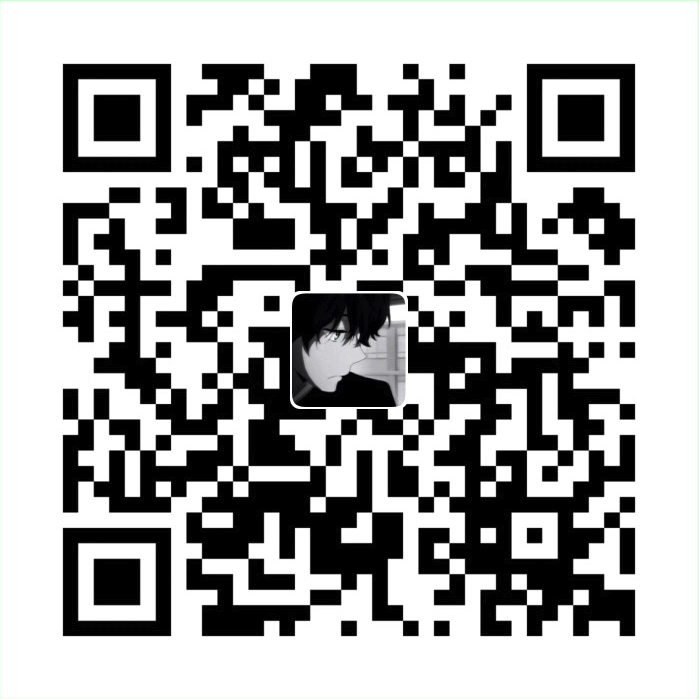
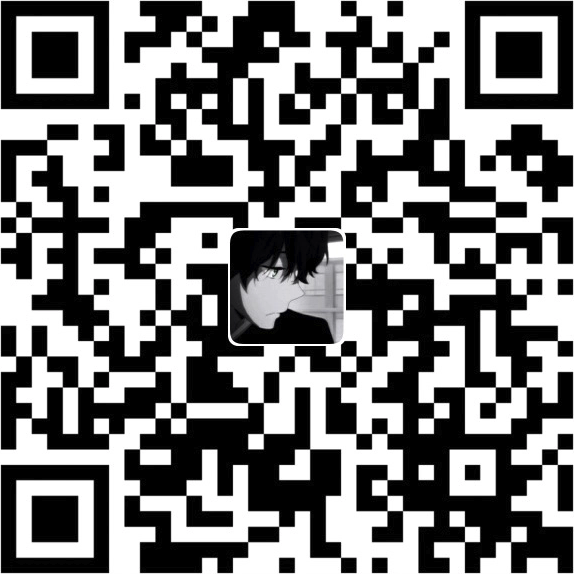
Deploy OLIVERgZzy/oliver.github.io to github.com/OLIVERgZzy/oliver.github.io.git:gh-pages

diff --git a/typescript-ji-chu-yu-fa/index.html b/typescript-ji-chu-yu-fa/index.html
@@ -1775,10 +1775,10 @@ m<span class="token punctuation">.</span>myFunction <span class="token operator"
                         <li class="tab col s6 wechat-tab waves-effect waves-light"><a href="#wechat">微 信</a></li>
                     </ul>
                     <div id="alipay">
-                        <img src="https://i.loli.net/2020/06/26/GJ8SHf43zVLKrls.png" class="reward-img" alt="支付宝打赏二维码">
+                        <img src="https://i.loli.net/2020/06/27/ifgKHSY8FP4wsRQ.png" class="reward-img" alt="支付宝打赏二维码">
                     </div>
                     <div id="wechat">
-                        <img src="https://i.loli.net/2020/06/26/Trbis7NPplgSJAq.png" class="reward-img" alt="微信打赏二维码">
+                        <img src="https://i.loli.net/2020/06/27/cbidkZxVlhErz18.png" class="reward-img" alt="微信打赏二维码">
                     </div>
                 </div>
             </div>

diff --git a/typescript-gong-cheng-pei-zhi/index.html b/typescript-gong-cheng-pei-zhi/index.html
@@ -918,10 +918,10 @@ module<span class="token punctuation">.</span>exports <span class="token operato
                         <li class="tab col s6 wechat-tab waves-effect waves-light"><a href="#wechat">微 信</a></li>
                     </ul>
                     <div id="alipay">
-                        <img src="https://i.loli.net/2020/06/26/GJ8SHf43zVLKrls.png" class="reward-img" alt="支付宝打赏二维码">
+                        <img src="https://i.loli.net/2020/06/27/ifgKHSY8FP4wsRQ.png" class="reward-img" alt="支付宝打赏二维码">
                     </div>
                     <div id="wechat">
-                        <img src="https://i.loli.net/2020/06/26/Trbis7NPplgSJAq.png" class="reward-img" alt="微信打赏二维码">
+                        <img src="https://i.loli.net/2020/06/27/cbidkZxVlhErz18.png" class="reward-img" alt="微信打赏二维码">
                     </div>
                 </div>
             </div>

diff --git a/wo-de-di-yi-pian-bo-ke/index.html b/wo-de-di-yi-pian-bo-ke/index.html
@@ -617,10 +617,10 @@
                         <li class="tab col s6 wechat-tab waves-effect waves-light"><a href="#wechat">微 信</a></li>
                     </ul>
                     <div id="alipay">
-                        <img src="https://i.loli.net/2020/06/26/GJ8SHf43zVLKrls.png" class="reward-img" alt="支付宝打赏二维码">
+                        <img src="https://i.loli.net/2020/06/27/ifgKHSY8FP4wsRQ.png" class="reward-img" alt="支付宝打赏二维码">
                     </div>
                     <div id="wechat">
-                        <img src="https://i.loli.net/2020/06/26/Trbis7NPplgSJAq.png" class="reward-img" alt="微信打赏二维码">
+                        <img src="https://i.loli.net/2020/06/27/cbidkZxVlhErz18.png" class="reward-img" alt="微信打赏二维码">
                     </div>
                 </div>
             </div>
